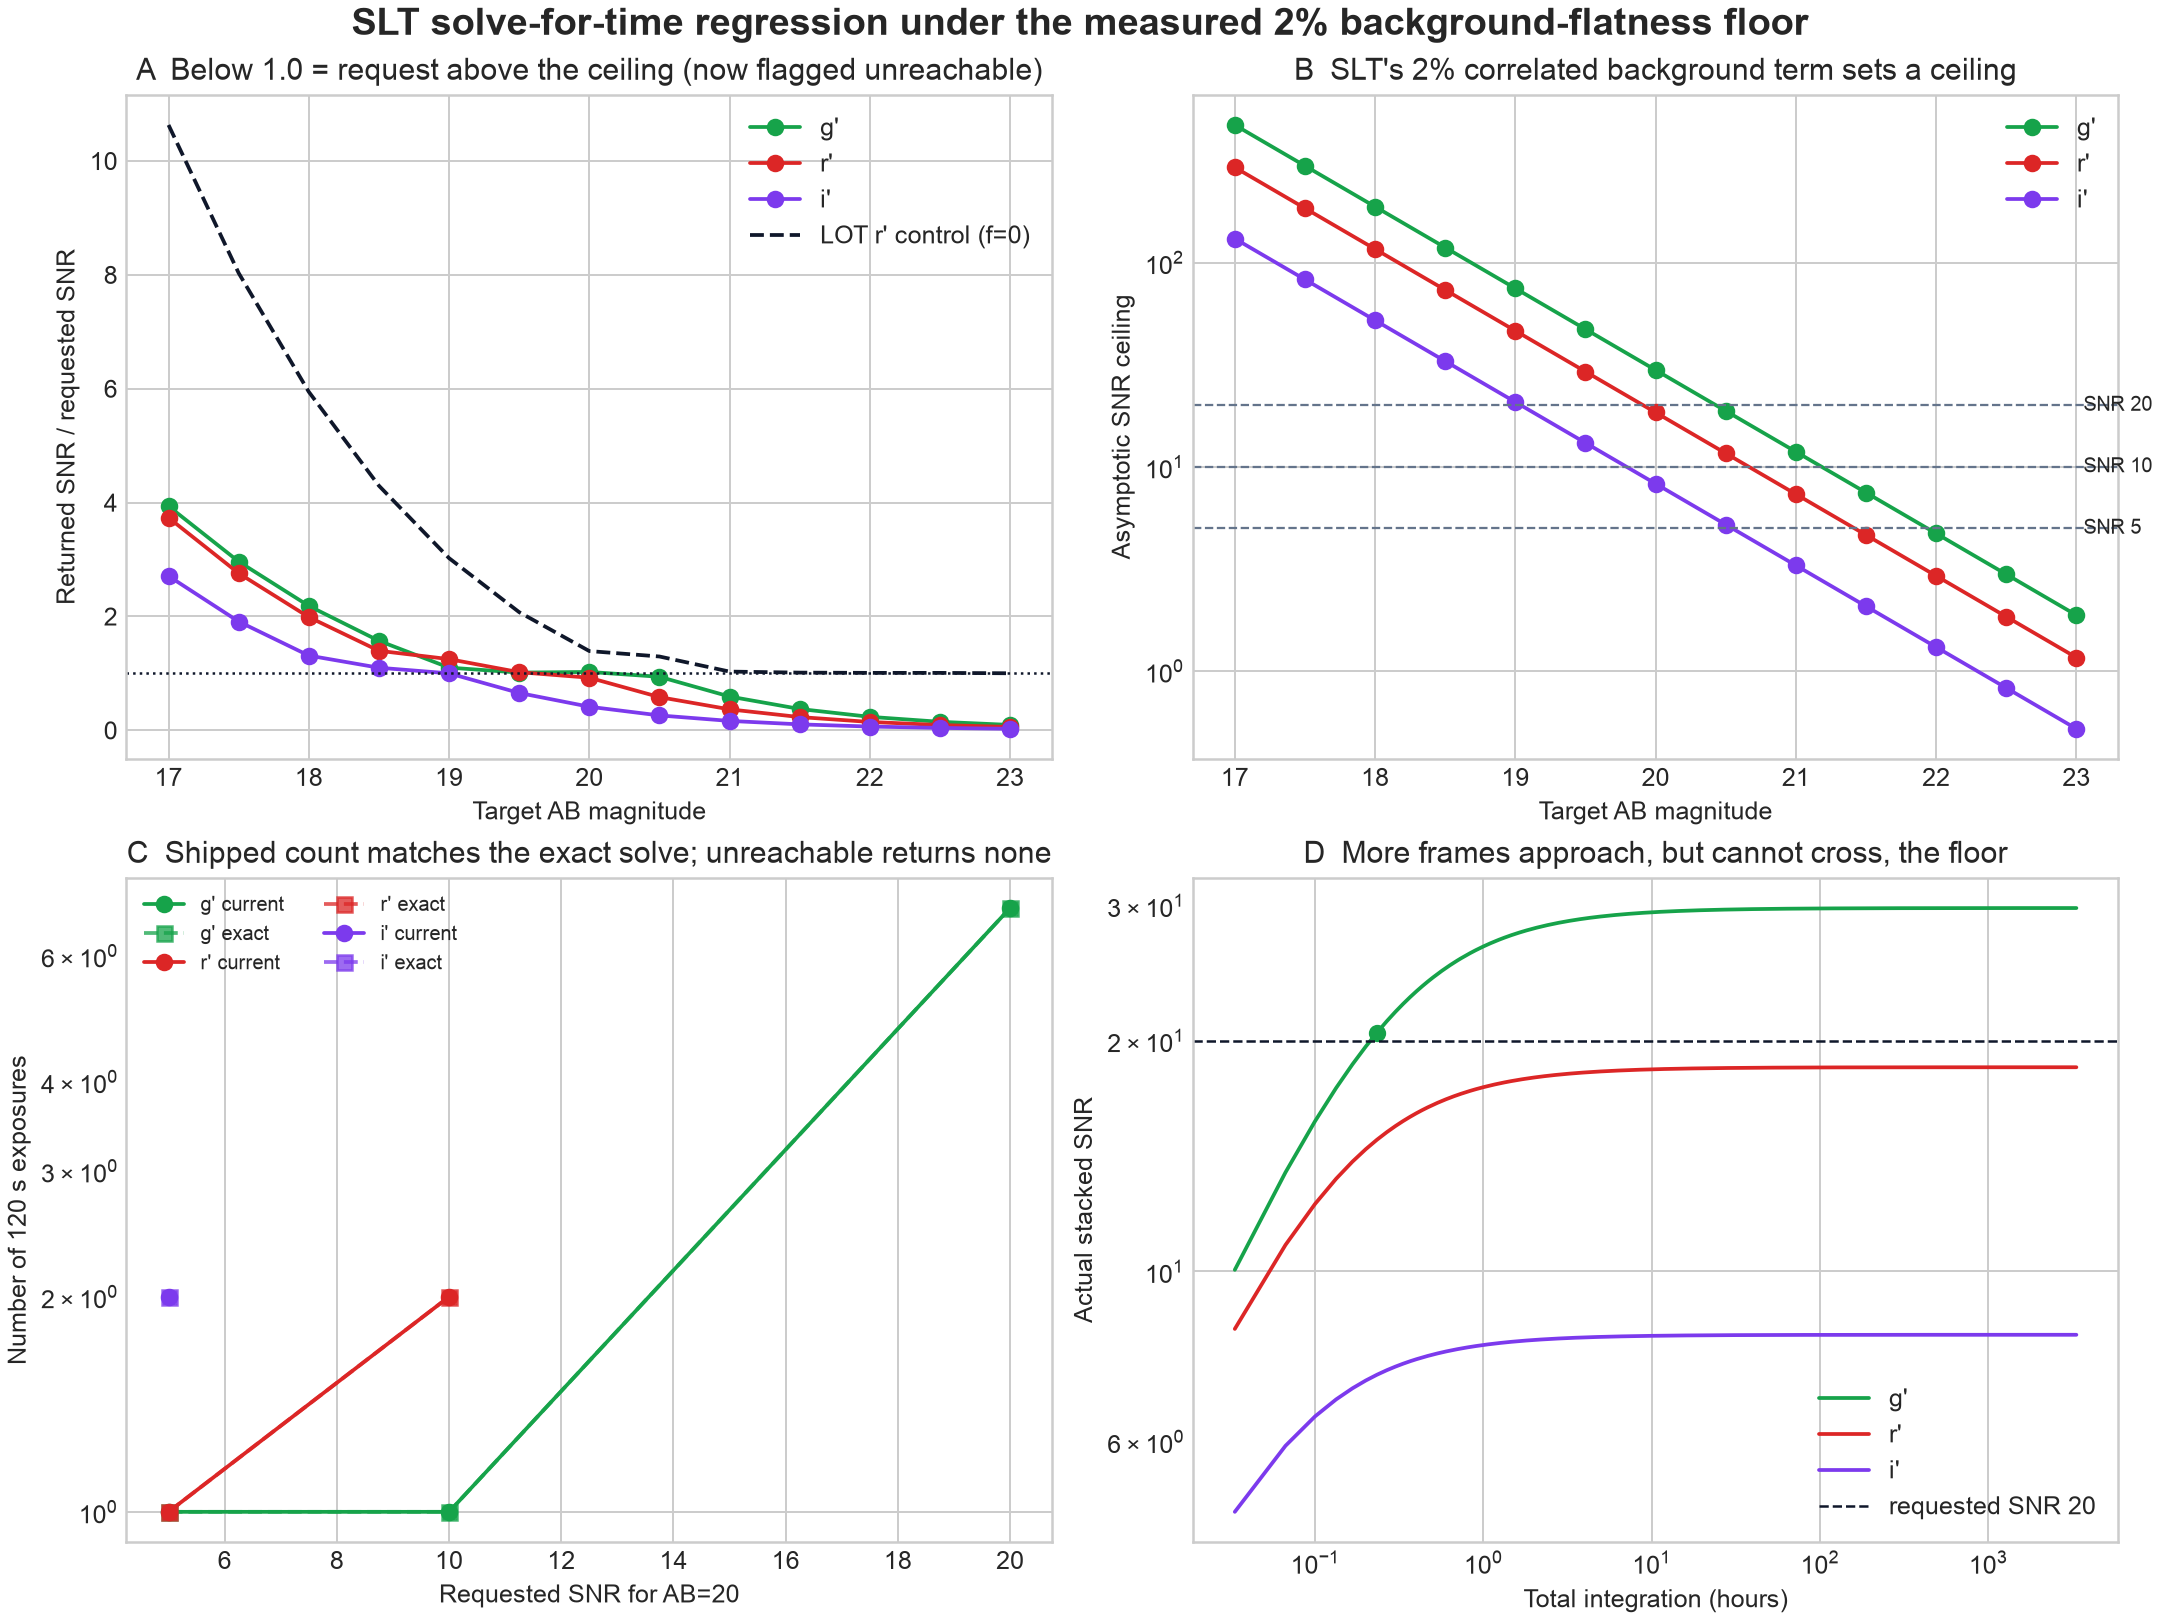
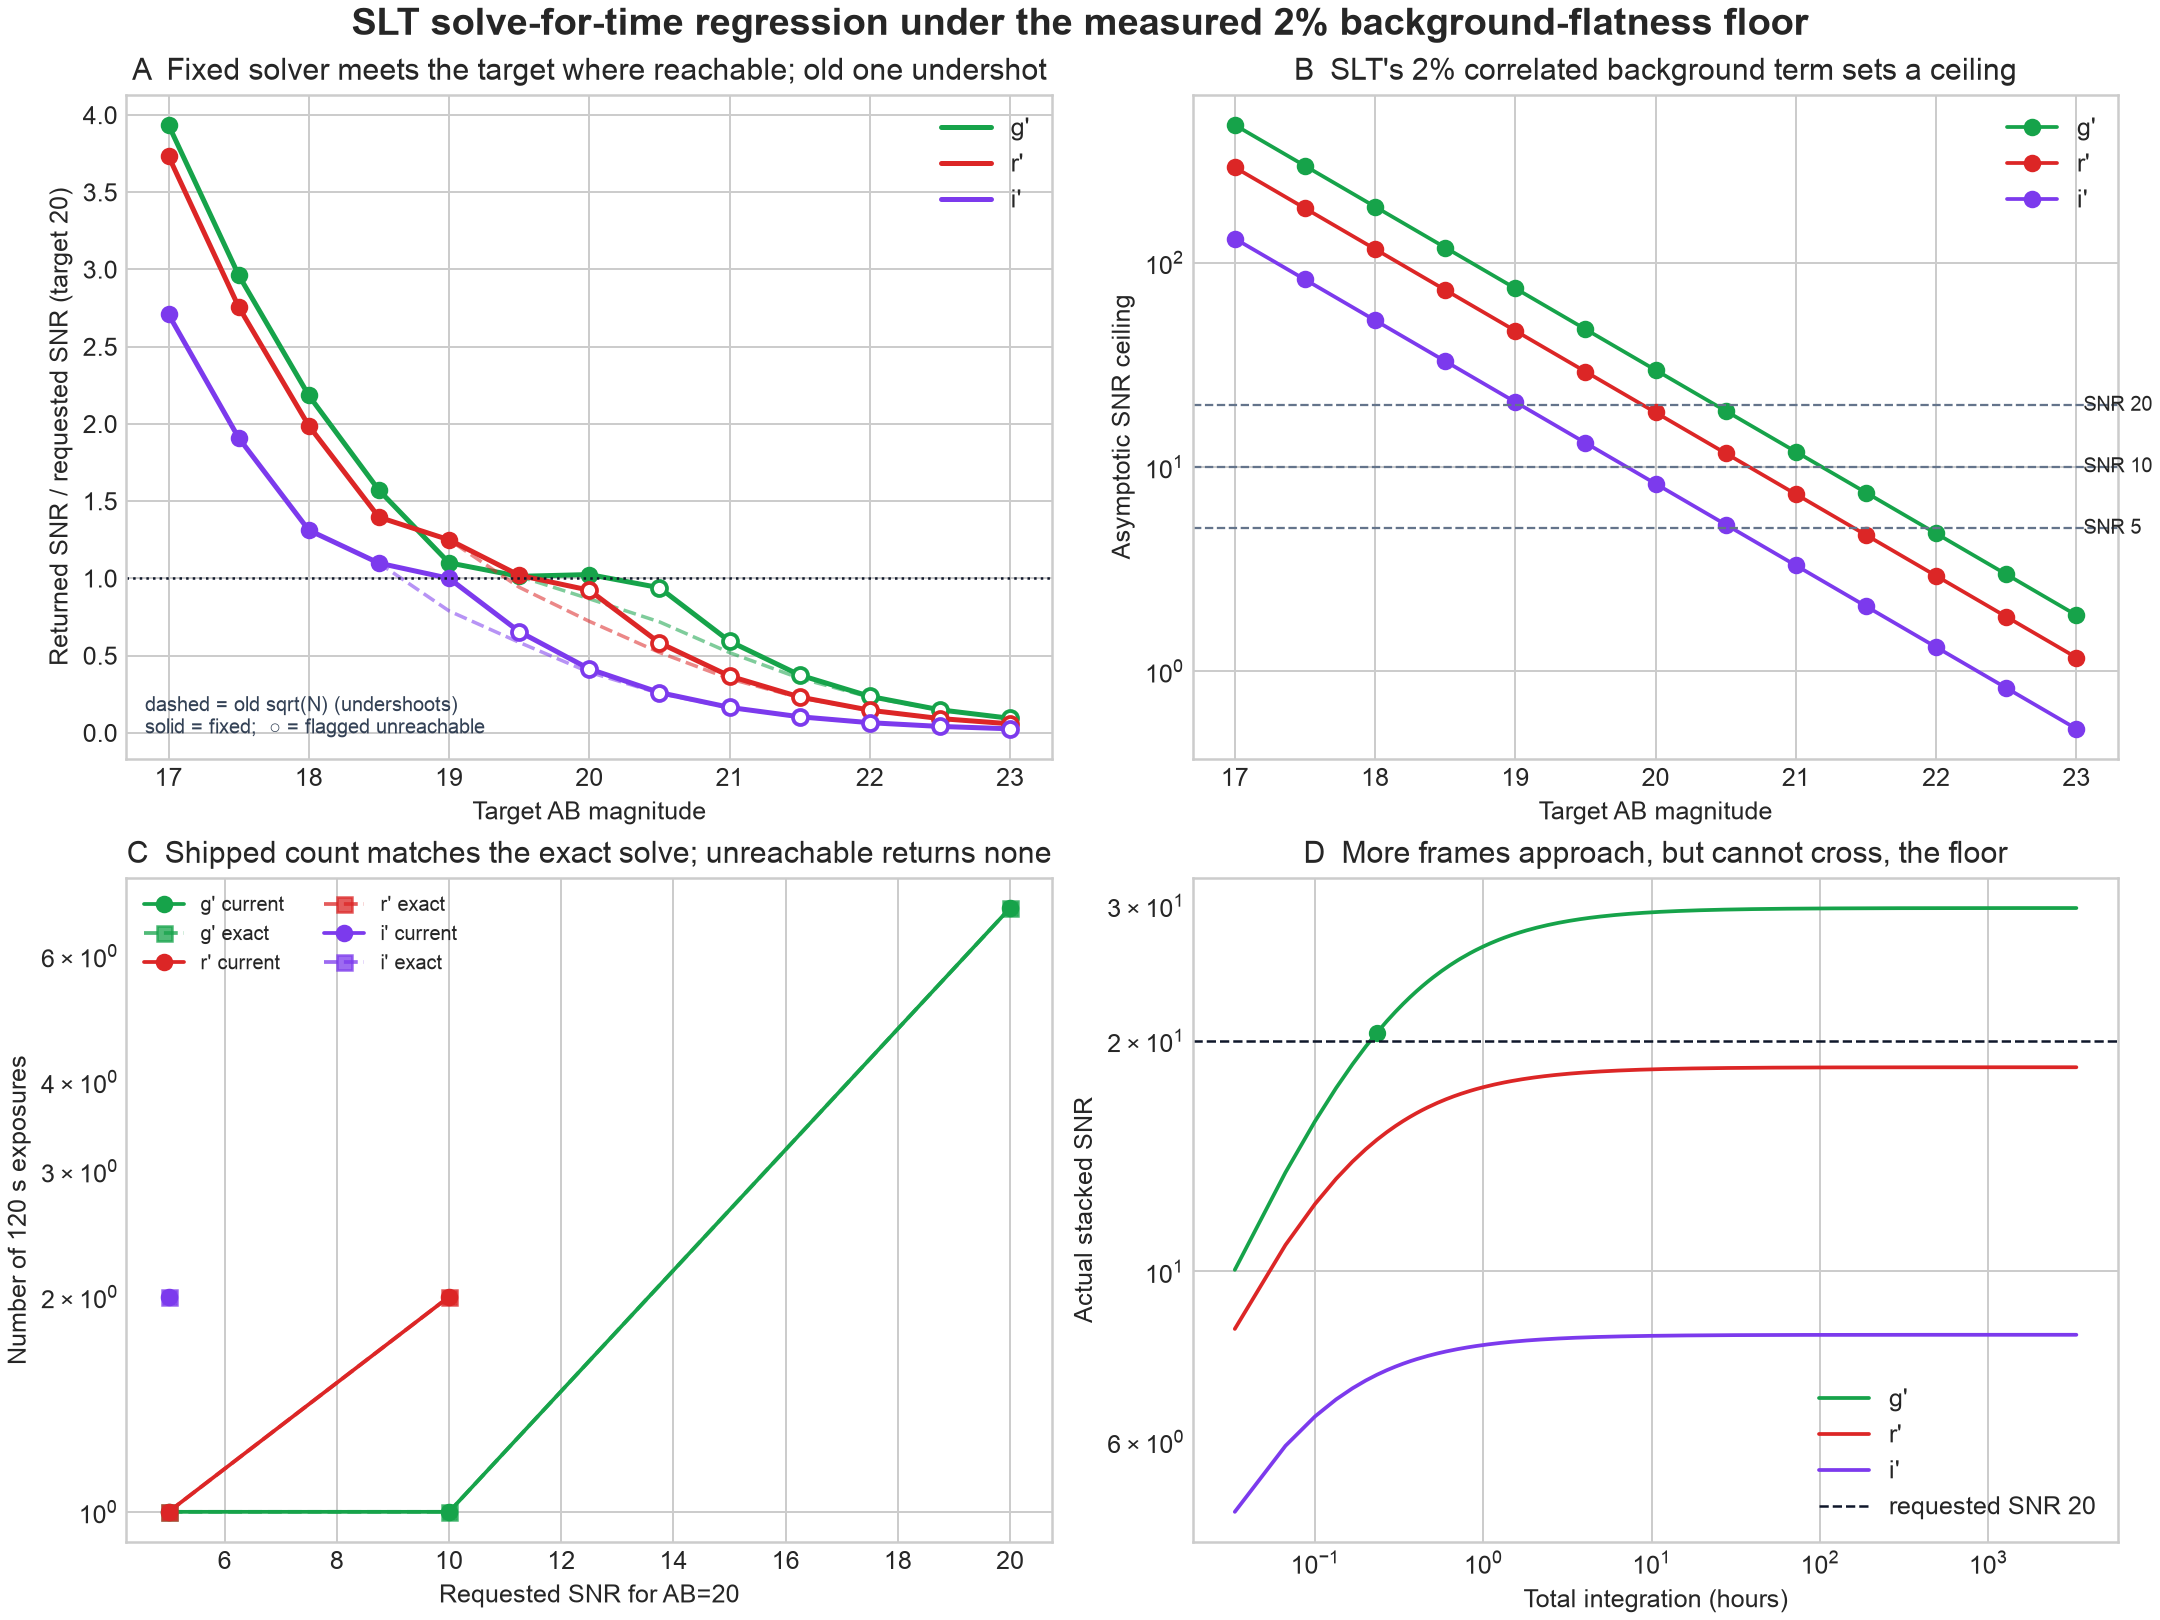
Show old-vs-new in the solve-time Panel A
The Panel A "achieved / requested SNR" curve looked unchanged after the fix,
because a value below 1.0 is inherent to an unreachable target, not a bug.
Overlay the superseded sqrt(N) solver (dashed) against the fixed solver (solid,
filled = reachable, open = flagged unreachable): the fixed curve now sits at or
above 1.0 wherever the target is reachable while the old one undershot there,
making the correction visible instead of asserted in the title.

Changed region(s): [[0.0, 0.1235, 0.4963, 0.463], [0.031, 0.0309, 0.4963, 0.1543]]

diff --git a/validation/analyze_solve_time_floor.py b/validation/analyze_solve_time_floor.py
@@ -126,6 +126,23 @@ def build_table():
                     request = request_for(telescope, camera, filter_id, magnitude, target_snr)
                     response = run_calculation(request)
                     ceiling, exact, exact_achieved = exact_exposure_count(request, response, target_snr)
+                    # Reproduce the superseded sqrt(N) solver: N = (target/single)^2,
+                    # then the SNR that many frames actually stack to. This is the
+                    # "before" curve, so the fix is visible next to it.
+                    single = response.core.single_snr
+                    if single > 0:
+                        naive_exposures = math.ceil((target_snr / single) ** 2)
+                        naive_achieved = float(physics.calculate_total_snr(
+                            response.budget.source_count_rate, response.budget.sky_count_rate,
+                            request.instrument.camera.dark_current_rate,
+                            request.instrument.camera.readout_noise,
+                            response.diagnostics.num_pixels_aperture, SINGLE_EXPOSURE_S,
+                            naive_exposures * SINGLE_EXPOSURE_S, naive_exposures,
+                            response.diagnostics.num_pixels_sky_estimate,
+                            request.instrument.camera.background_flatness_fraction,
+                        ))
+                    else:
+                        naive_exposures, naive_achieved = np.nan, np.nan
                     rows.append({
                         "telescope": telescope,
                         "camera": camera,
@@ -141,6 +158,8 @@ def build_table():
                         "current_reachable": response.core.target_reachable,
                         "current_achieved_snr": response.core.total_snr,
                         "current_achieved_fraction": response.core.total_snr / target_snr,
+                        "naive_exposures": naive_exposures,
+                        "naive_achieved_fraction": naive_achieved / target_snr,
                         "asymptotic_snr_ceiling": ceiling,
                         "exact_exposures": exact,
                         "exact_achieved_snr": exact_achieved,
@@ -165,17 +184,28 @@ def make_figure(table):
 
     ax = axes[0, 0]
     for band in FILTERS:
-        subset = slt[(slt["band"].eq(band)) & (slt["target_snr"].eq(20))]
-        ax.plot(subset["ab_magnitude"], subset["current_achieved_fraction"], "o-",
-                color=colours[band], label=f"{band}'")
-    lot = table[(table["telescope"].eq("LOT")) & (table["band"].eq("r"))
-                & (table["target_snr"].eq(20))]
-    ax.plot(lot["ab_magnitude"], lot["current_achieved_fraction"], "--",
-            color="#0f172a", label="LOT r' control (f=0)")
+        subset = slt[(slt["band"].eq(band)) & (slt["target_snr"].eq(20))].sort_values("ab_magnitude")
+        # Old sqrt(N) solver (dashed): undershoots its own target -- below 1.0
+        # even where the target is reachable. This is the bug.
+        ax.plot(subset["ab_magnitude"], subset["naive_achieved_fraction"], "--",
+                color=colours[band], alpha=0.55, linewidth=1.4)
+        # Fixed solver (solid): >= 1.0 wherever the target is reachable, and it
+        # returns "unreachable" (open marker) once the ceiling drops below it.
+        reach = subset[subset["current_reachable"] == True]  # noqa: E712
+        unreach = subset[subset["current_reachable"] != True]  # noqa: E712
+        ax.plot(subset["ab_magnitude"], subset["current_achieved_fraction"], "-",
+                color=colours[band], linewidth=2, label=f"{band}'")
+        ax.plot(reach["ab_magnitude"], reach["current_achieved_fraction"], "o",
+                color=colours[band])
+        ax.plot(unreach["ab_magnitude"], unreach["current_achieved_fraction"], "o",
+                mfc="white", mec=colours[band], mew=1.5)
     ax.axhline(1, color="#0f172a", linewidth=1, linestyle=":")
-    ax.set(xlabel="Target AB magnitude", ylabel="Returned SNR / requested SNR",
-           title="A  Below 1.0 = request above the ceiling (now flagged unreachable)")
-    ax.legend(frameon=False)
+    ax.text(0.02, 0.03,
+            "dashed = old sqrt(N) (undershoots)\nsolid = fixed;  ○ = flagged unreachable",
+            transform=ax.transAxes, fontsize=8, va="bottom", color="#334155")
+    ax.set(xlabel="Target AB magnitude", ylabel="Returned SNR / requested SNR (target 20)",
+           title="A  Fixed solver meets the target where reachable; old one undershot")
+    ax.legend(frameon=False, loc="upper right")
 
     ax = axes[0, 1]
     ceiling = slt[slt["target_snr"].eq(5)]
